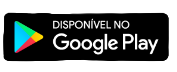
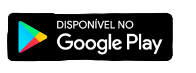
Estilização

Changed region(s): [[0.0, 0.1667, 0.9605, 0.8611], [0.2825, 0.25, 0.7345, 0.4167], [0.4237, 0.1667, 0.5085, 0.1944]]

diff --git a/paginainstagram/style.css b/paginainstagram/style.css
@@ -1,0 +1,148 @@
+*{
+  padding: 0;
+  margin: 0;
+  box-sizing: border-box;
+  text-decoration: none;
+  font-family: sans-serif;
+  font-size: 14px;
+}
+
+body{
+  width: 100%;
+  min-height: 100vh;
+  background-color: white;
+  display: flex;
+  justify-content: center;
+  padding: 0;
+  margin: 0;
+}
+
+.instagram-wrapper{
+  align-items: center;
+  display: flex;
+  justify-content: start;
+  width: 60%;
+  height: 100vh;
+}
+
+.instagram-phone{
+  display: flex;
+  align-items: center;
+  justify-content: center;
+  width: 50%;
+}
+
+.instagram-phone img{
+  height: 40rem;
+}
+
+.foto-pessoal{
+  border-radius: 50%;
+  max-width: 200px;
+  max-height: 100px;
+  width: auto;
+  height: 6rem;
+  overflow: hidden;
+}
+
+.instagram-continue{
+  display: flex;
+  align-items: center;
+  justify-content: space-around;
+  flex-direction: column;
+  width: 50%;
+  min-height: 34rem;
+}
+
+.group{
+  justify-content: space-between;
+  display: flex;
+  align-items: center;
+  flex-direction: column;
+  background-color: #fff;
+  width: 90%;
+  padding: 1.3rem 0;
+  border: 1px solid lightgray;
+  margin-top: 0.5rem;
+}
+
+.group:nth-child(1){
+  min-height: 19rem;
+}
+
+.get-app{
+  display: flex;
+  align-items: center;
+  justify-content: center;
+  flex-direction: column;
+  width: 100%;
+  padding: 1.3rem 0;
+}
+
+.instagram-logo{
+  height: 4.3rem;
+}
+
+.instagram-login{
+  background-color: #0095f6;
+  border-radius: 4px;
+  margin-top: 1rem;
+  padding: 8px;
+  color: white;
+}
+
+.instagram-logout{
+  color: #0095f6;
+  margin-top: 1rem;
+}
+
+.not-account{
+  color: rgb(160, 160, 160);
+}
+
+.link-blue{
+  color: #0095f6;
+}
+
+.download{
+  display: flex;
+  align-items: center;
+  justify-content: center;
+  width: 100%;
+  padding: 1rem;
+}
+
+.app-download{
+  height: 3rem;
+  width: 10rem;
+  background-size: cover;
+}
+
+.app-download:nth-child(1){
+  background-image: url('./img/appstore.png');
+}
+
+.app-download:nth-child(2){
+  background-image: url('./img/googleplay.png');
+}
+
+@media(max-width: 1024px){
+  .instagram-wrapper{
+    width: 90%;
+  }
+}
+
+@media(max-width: 650px){
+  .body{
+    color: white;
+  }
+  .instagram-wrapper{
+    width: 90%;
+  }
+  .instagram-phone{
+    display: none;
+  }
+  .instagram-continue{
+    width: 100%;
+  }
+}

diff --git a/paginainstagram/index.html b/paginainstagram/index.html
@@ -23,7 +23,7 @@
           <a href="#" class="instagram-logout">Remove account</a>
       </div>
       <div class="group">
-        <P>Not devliviafort?</P>
+        <P class="not-account">Not devliviafort?</P>
         <p class="not-account">
           <span class="link-blue">Switch Accounts</span>
           or
@@ -35,8 +35,6 @@
         <div class="download">
           <a href="#" class="app-download"></a>
           <a href="#" class="app-download"></a>
-          <img src="img/appstore.png" class="apple-store" alt="apple"/>
-          <img src="img/googleplay.png" class="googleplay" alt="googleplay"/>
         </div>
       </div>
     </div>
